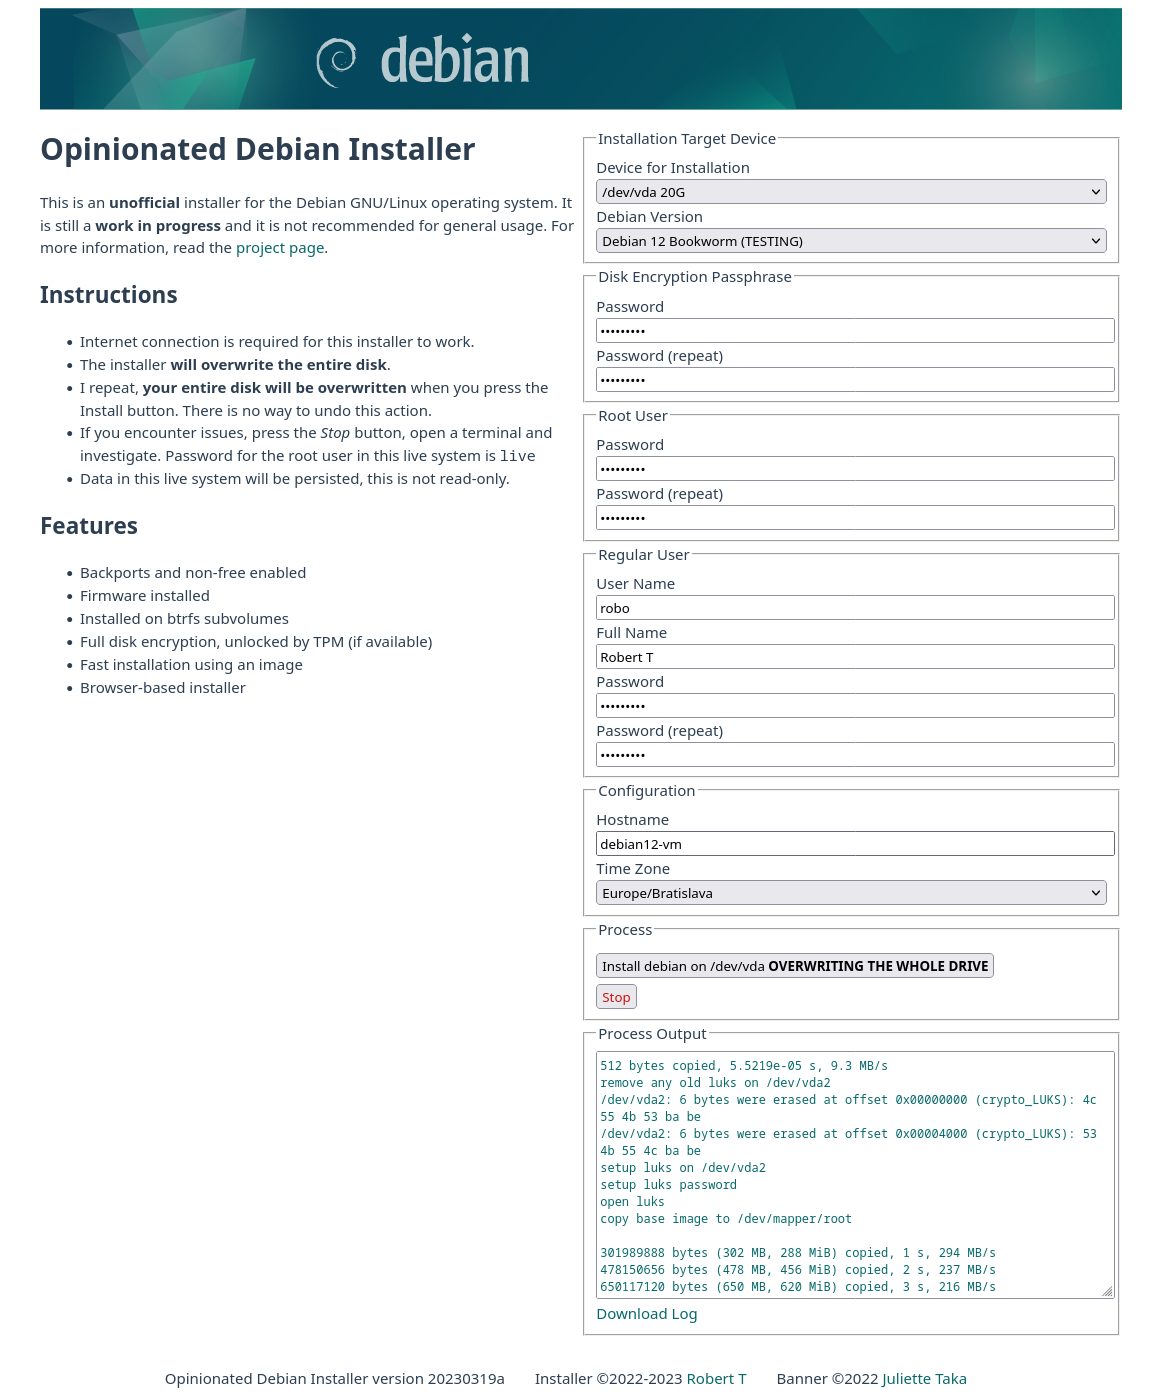
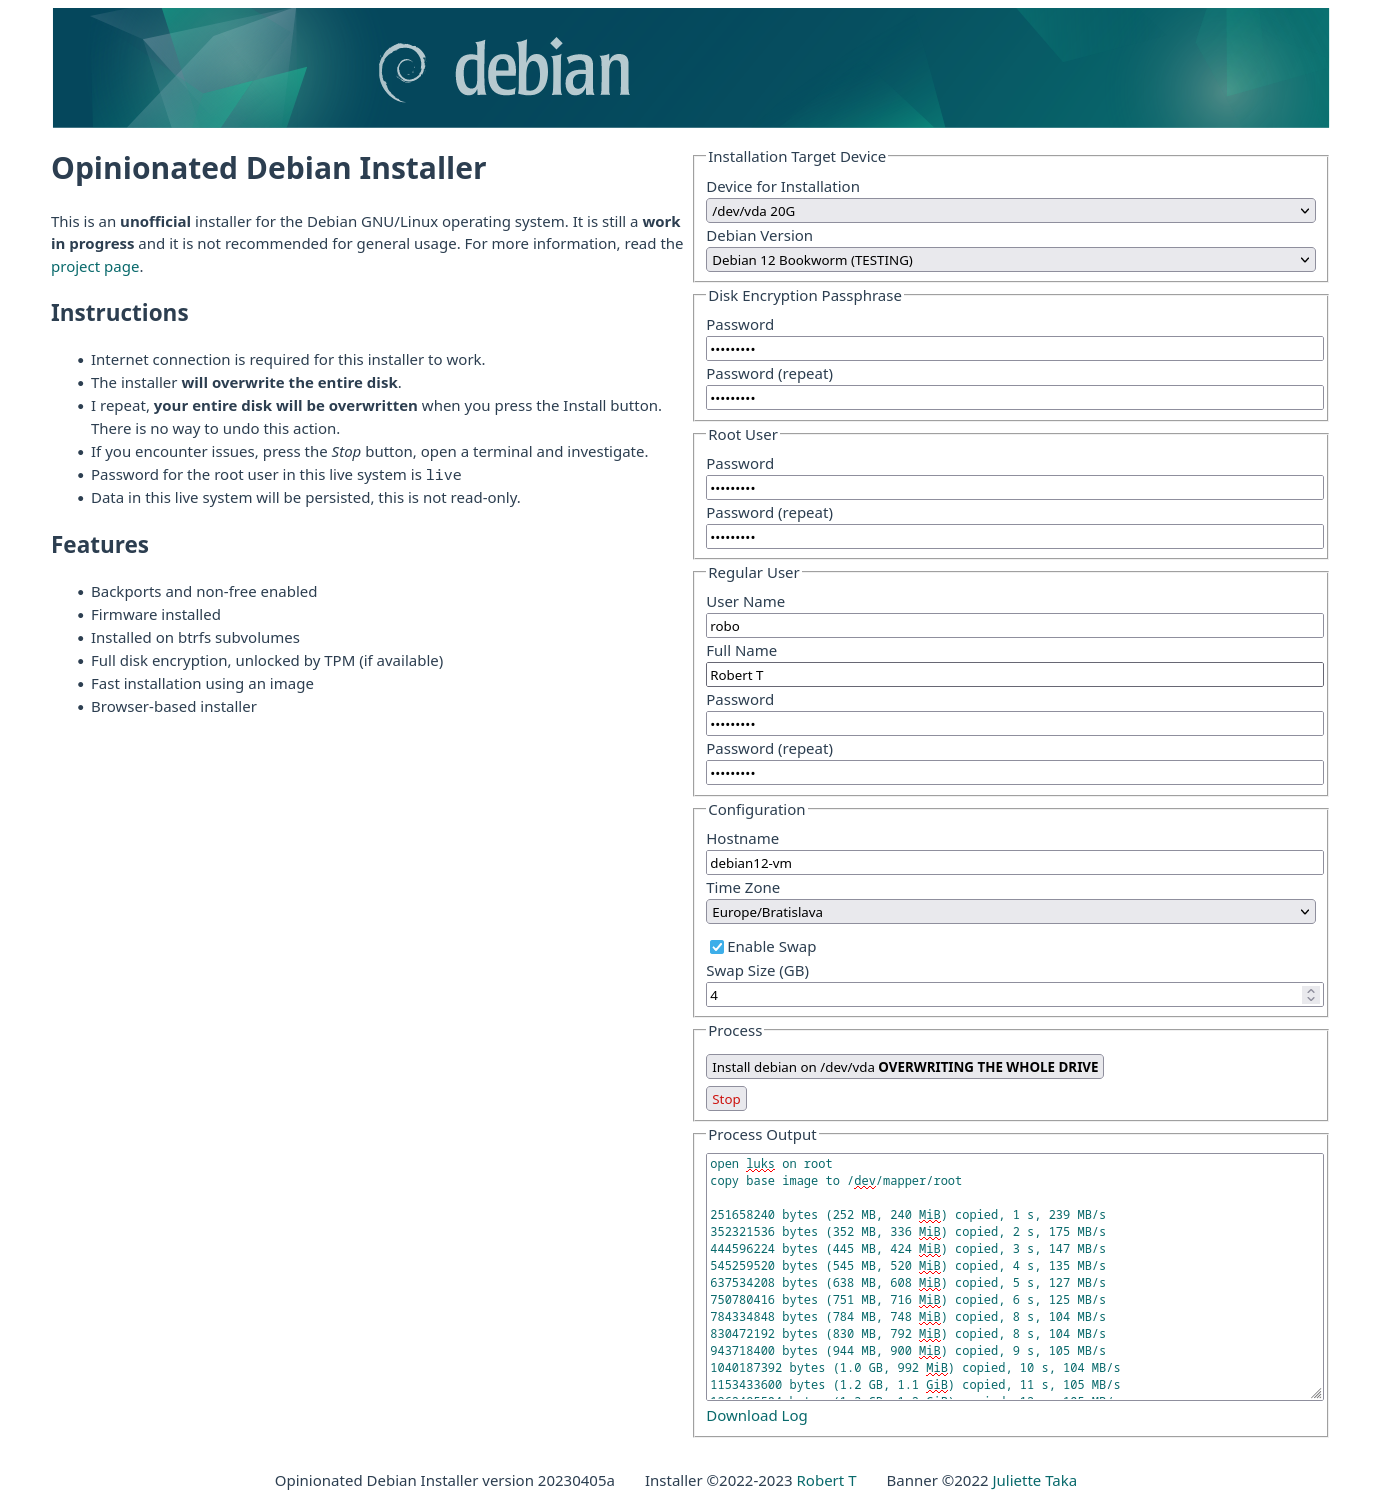
swap in crypttab
still not working 100%

diff --git a/frontend/src/App.vue b/frontend/src/App.vue
@@ -154,6 +154,7 @@ export default {
           .then(response => {
             console.log(response);
             this.install_to_device_status = "";
+            this.overall_status = "";
             this.finished = false;
           })
           .catch(error => {
@@ -284,7 +285,7 @@ export default {
   </main>
 
   <footer>
-    <span>Opinionated Debian Installer version 20230401a</span>
+    <span>Opinionated Debian Installer version 20230405a</span>
     <span>Installer &copy;2022-2023 <a href="https://github.com/r0b0/debian-installer">Robert T</a></span>
     <span>Banner &copy;2022 <a href="https://github.com/julietteTaka/Emerald">Juliette Taka</a></span>
   </footer>

diff --git a/README.md b/README.md
@@ -22,7 +22,6 @@ This tool can be used to create a modern installation of Debian. Our opinions of
 |---------------------|-----------------------------------------------------------------------------------------------------------------------------------------------------------------------------------------------------------------|-------------------------------------------------------------------------|
 | KDE Plasma          | [opinionated-debian-installer-bookworm-kde-plasma-20230324a.img](https://objectstorage.eu-frankfurt-1.oraclecloud.com/n/fr2rf1wke5iq/b/public/o/opinionated-debian-installer-bookworm-kde-plasma-20230324a.img) | 61395701 5231552d a77e00e9 b318825d 6febbb41 b8814d21 de8049ff 13f22508 |
 | Gnome               | [opinionated-debian-installer-bookworm-gnome-20230325a.img](https://objectstorage.eu-frankfurt-1.oraclecloud.com/n/fr2rf1wke5iq/b/public/o/opinionated-debian-installer-bookworm-gnome-20230325a.img)           | df318311 c3a38d08 ca344bfa f1e39330 1c73ab9d 713c6363 4ab9f6c9 6474f898 |
-| XFCE                | [opinionated-debian-installer-bookworm-xfce-20230329a.img](https://objectstorage.eu-frankfurt-1.oraclecloud.com/n/fr2rf1wke5iq/b/public/o/opinionated-debian-installer-bookworm-xfce-20230329a.img)             | 2d7d2622 b6721998 f2e07636 4ae90d3a 64ca0ada dca63666 7dce5d53 43ff4991 |
 
 ## Instructions
 
@@ -42,7 +41,7 @@ This tool can be used to create a modern installation of Debian. Our opinions of
   - UEFI ESP partition
   - Optional swap partition - LUKS encrypted
   - Root partition - [LUKS](https://cryptsetup-team.pages.debian.net/cryptsetup/README.Debian.html) encrypted (rest of the drive)
-- GPT root and swap partition is [auto-discoverable](https://www.freedesktop.org/software/systemd/man/systemd-gpt-auto-generator.html)
+- GPT root partition is [auto-discoverable](https://www.freedesktop.org/software/systemd/man/systemd-gpt-auto-generator.html)
 - Btrfs subvolumes will be called `@` for `/` (marked as default) and `@home` for `/home`, the top-level subvolume will be mounted to `/root/btrfs1`
 - The system is installed using an image from the live iso. This will speed up the installation significantly.
 - [Dracut](https://github.com/dracutdevs/dracut/wiki/) is used instead of initramfs-tools
